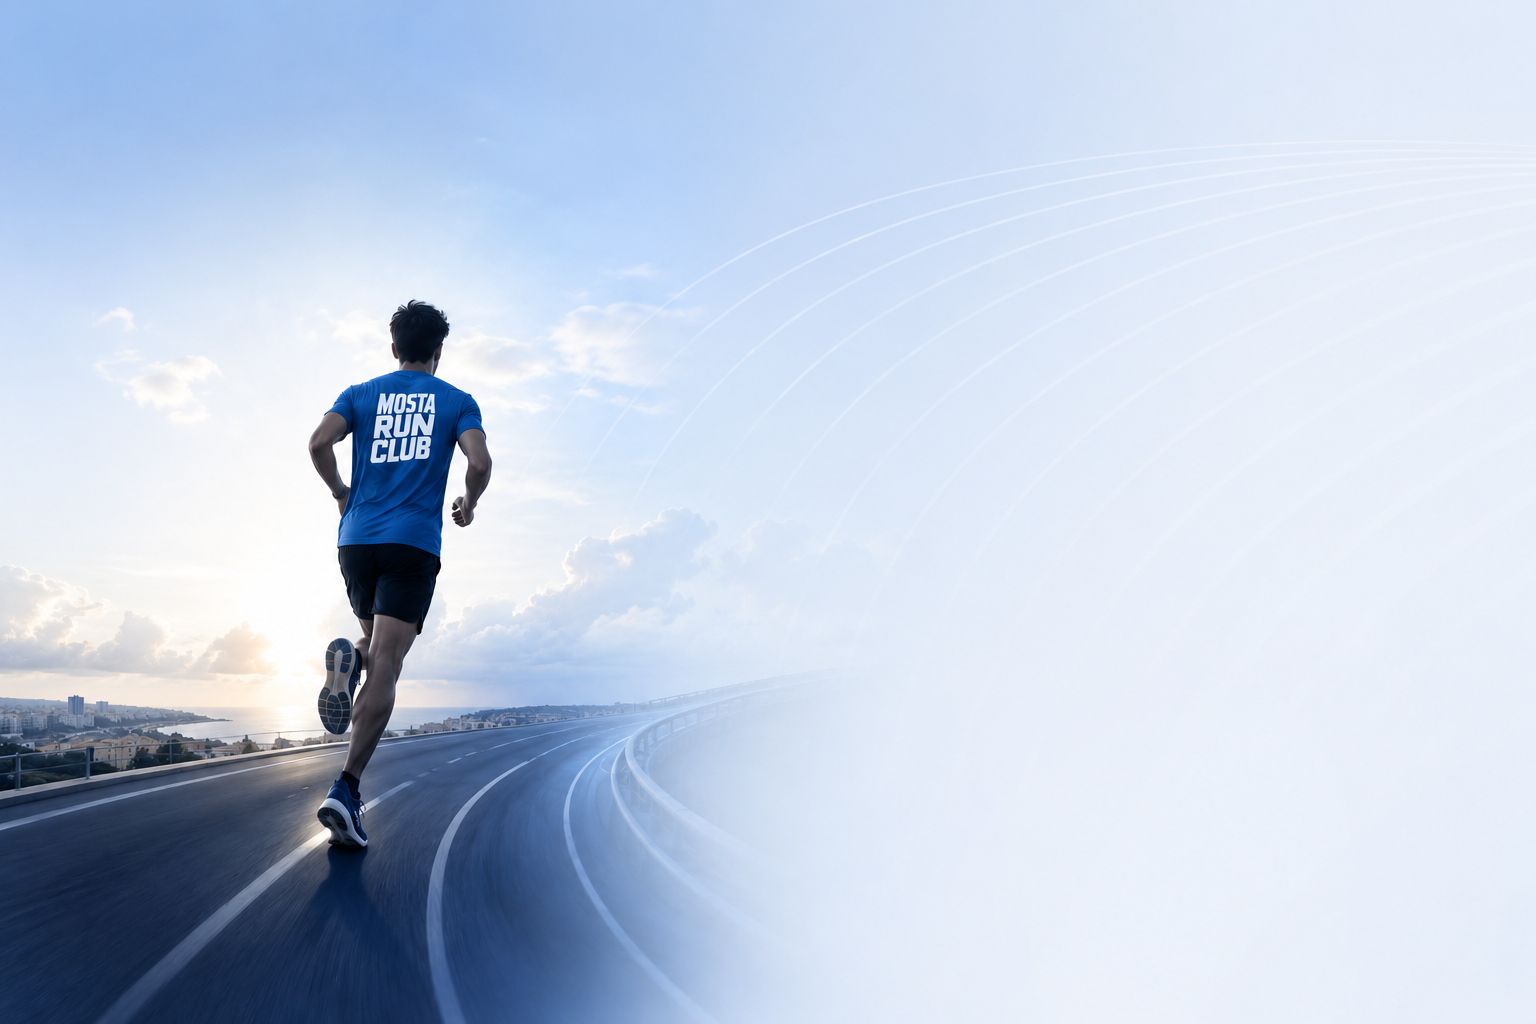
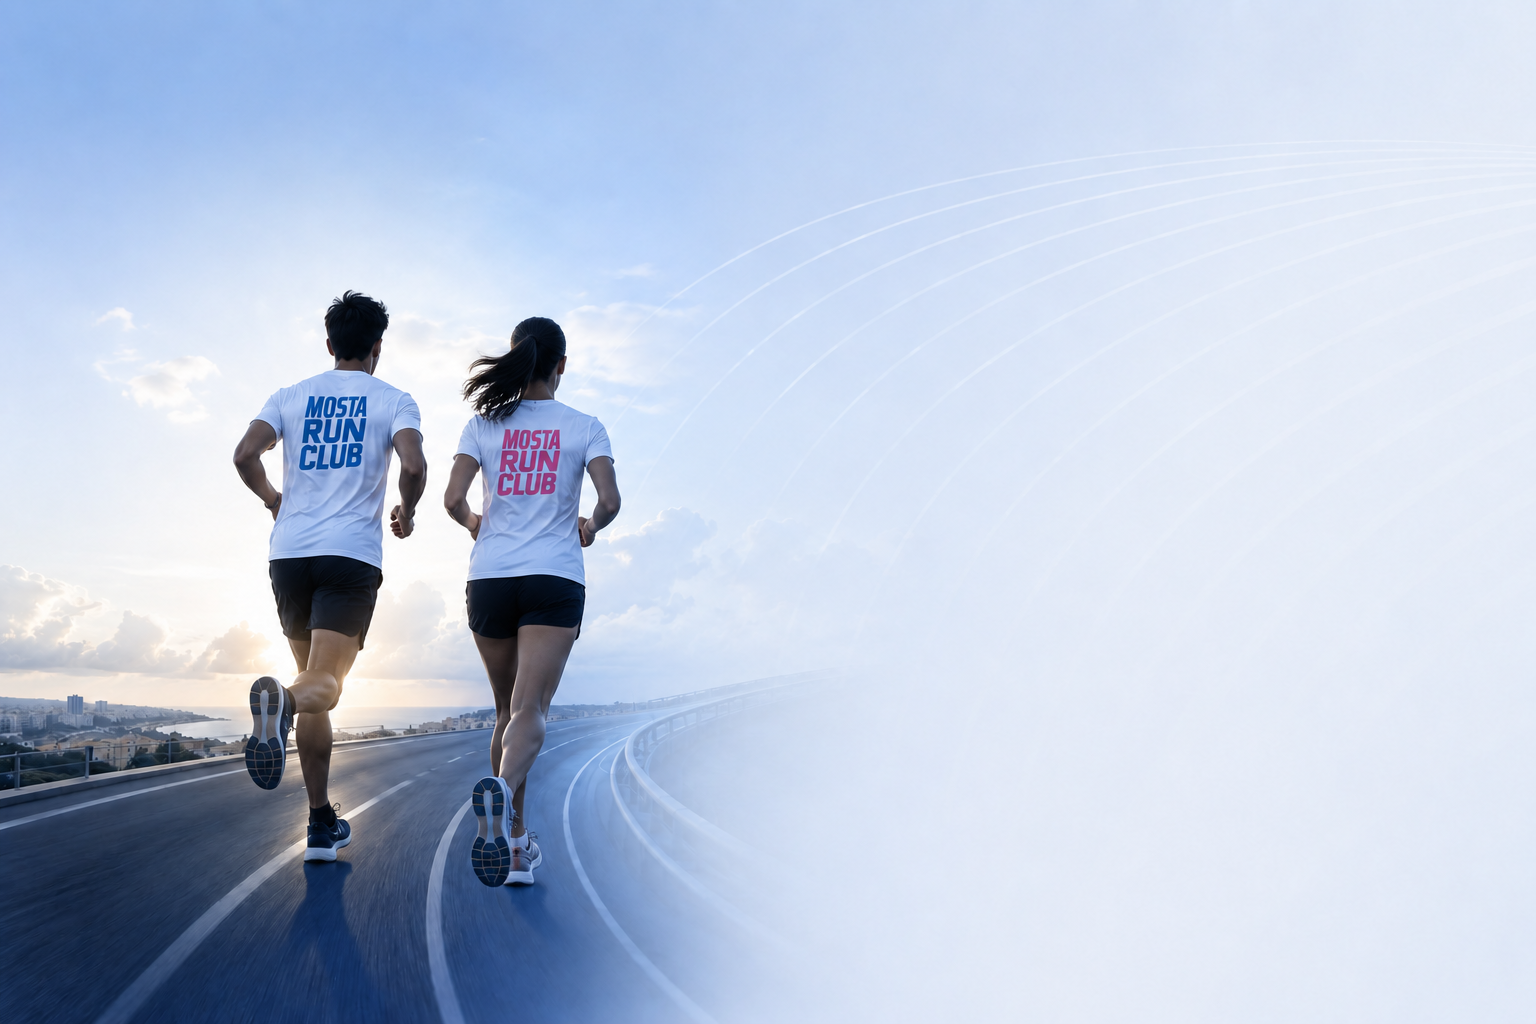
feat: update login background and layout
Replace the background image with a new version and update the login screen to use full-screen height.

Changed region(s): [[0.0, 0.2812, 0.4062, 0.9375]]

diff --git a/src/components/LoginScreen.tsx b/src/components/LoginScreen.tsx
@@ -270,7 +270,7 @@ export default function LoginScreen({ runners, onLoginSuccess, onUpdateRunner, l
 
   return (
     <div 
-      className={`min-h-[85vh] grid grid-cols-1 lg:grid-cols-2 items-start lg:items-center gap-12 p-4 pt-12 sm:pt-20 lg:pt-4 bg-cover bg-center bg-fixed ${language === 'ar' ? 'font-arabic' : ''}`} 
+      className={`min-h-screen grid grid-cols-1 lg:grid-cols-2 items-start lg:items-center gap-12 p-4 pt-12 sm:pt-20 lg:pt-4 bg-cover bg-center bg-fixed ${language === 'ar' ? 'font-arabic' : ''}`} 
       dir={language === 'ar' ? 'rtl' : 'ltr'}
       style={{ backgroundImage: "url('/back.png')" }}
     >